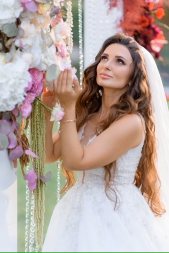
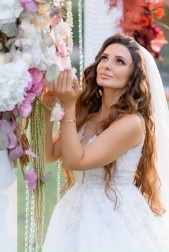
image

diff --git a/assets/css/style.css b/assets/css/style.css
@@ -65,6 +65,7 @@ body {
 	margin: 0 auto;
 	height: 100%;
 	background: #000000;
+	
 }
 svg{
 	vertical-align: middle;
@@ -377,7 +378,7 @@ ul{
 	text-align: center;
 	width: 33.33%;
 }
-
+  
 /************************ 6.Product css ***************************/
 .product-slide {
 	border-radius: 12px;
@@ -924,16 +925,18 @@ div#ui-datepicker-div {
   .work-slider-wrap {
 	display: flex;
 	gap: 20px;
+	margin-left:10px;
   }
   
   .work-card {
 	flex: 0 0 auto;
-	width: 280px;
+	width: 315px;
 	scroll-snap-align: center;
 	border-radius: 12px;
 	box-shadow: 0 4px 10px rgba(0,0,0,0.1);
 	background-color: white;
 	text-align: center;
+	margin:auto;
   }
   
   .work-card img {
@@ -1584,4 +1587,9 @@ canvas {
 	background-position: center;
 	width: 100%;
 	position: relative;
+}
+@media screen and (width:414px){
+	.work-card img{
+		width:700px !important;
+	}
 }

diff --git a/index.html b/index.html
@@ -396,7 +396,7 @@
 					<div class="work-slider mt-20" data-cursor-text="Drag" data-cursor="sm">
 					  <div class="work-slider-wrap">
 						<div class="work-card">
-							<img src="assets/images/banner.jpg" style="width:390px;" alt="Work 1">
+						<img src="assets/images/banner.jpg"  alt="Work 1" class="banner">
 						</div>
 				  
 						
